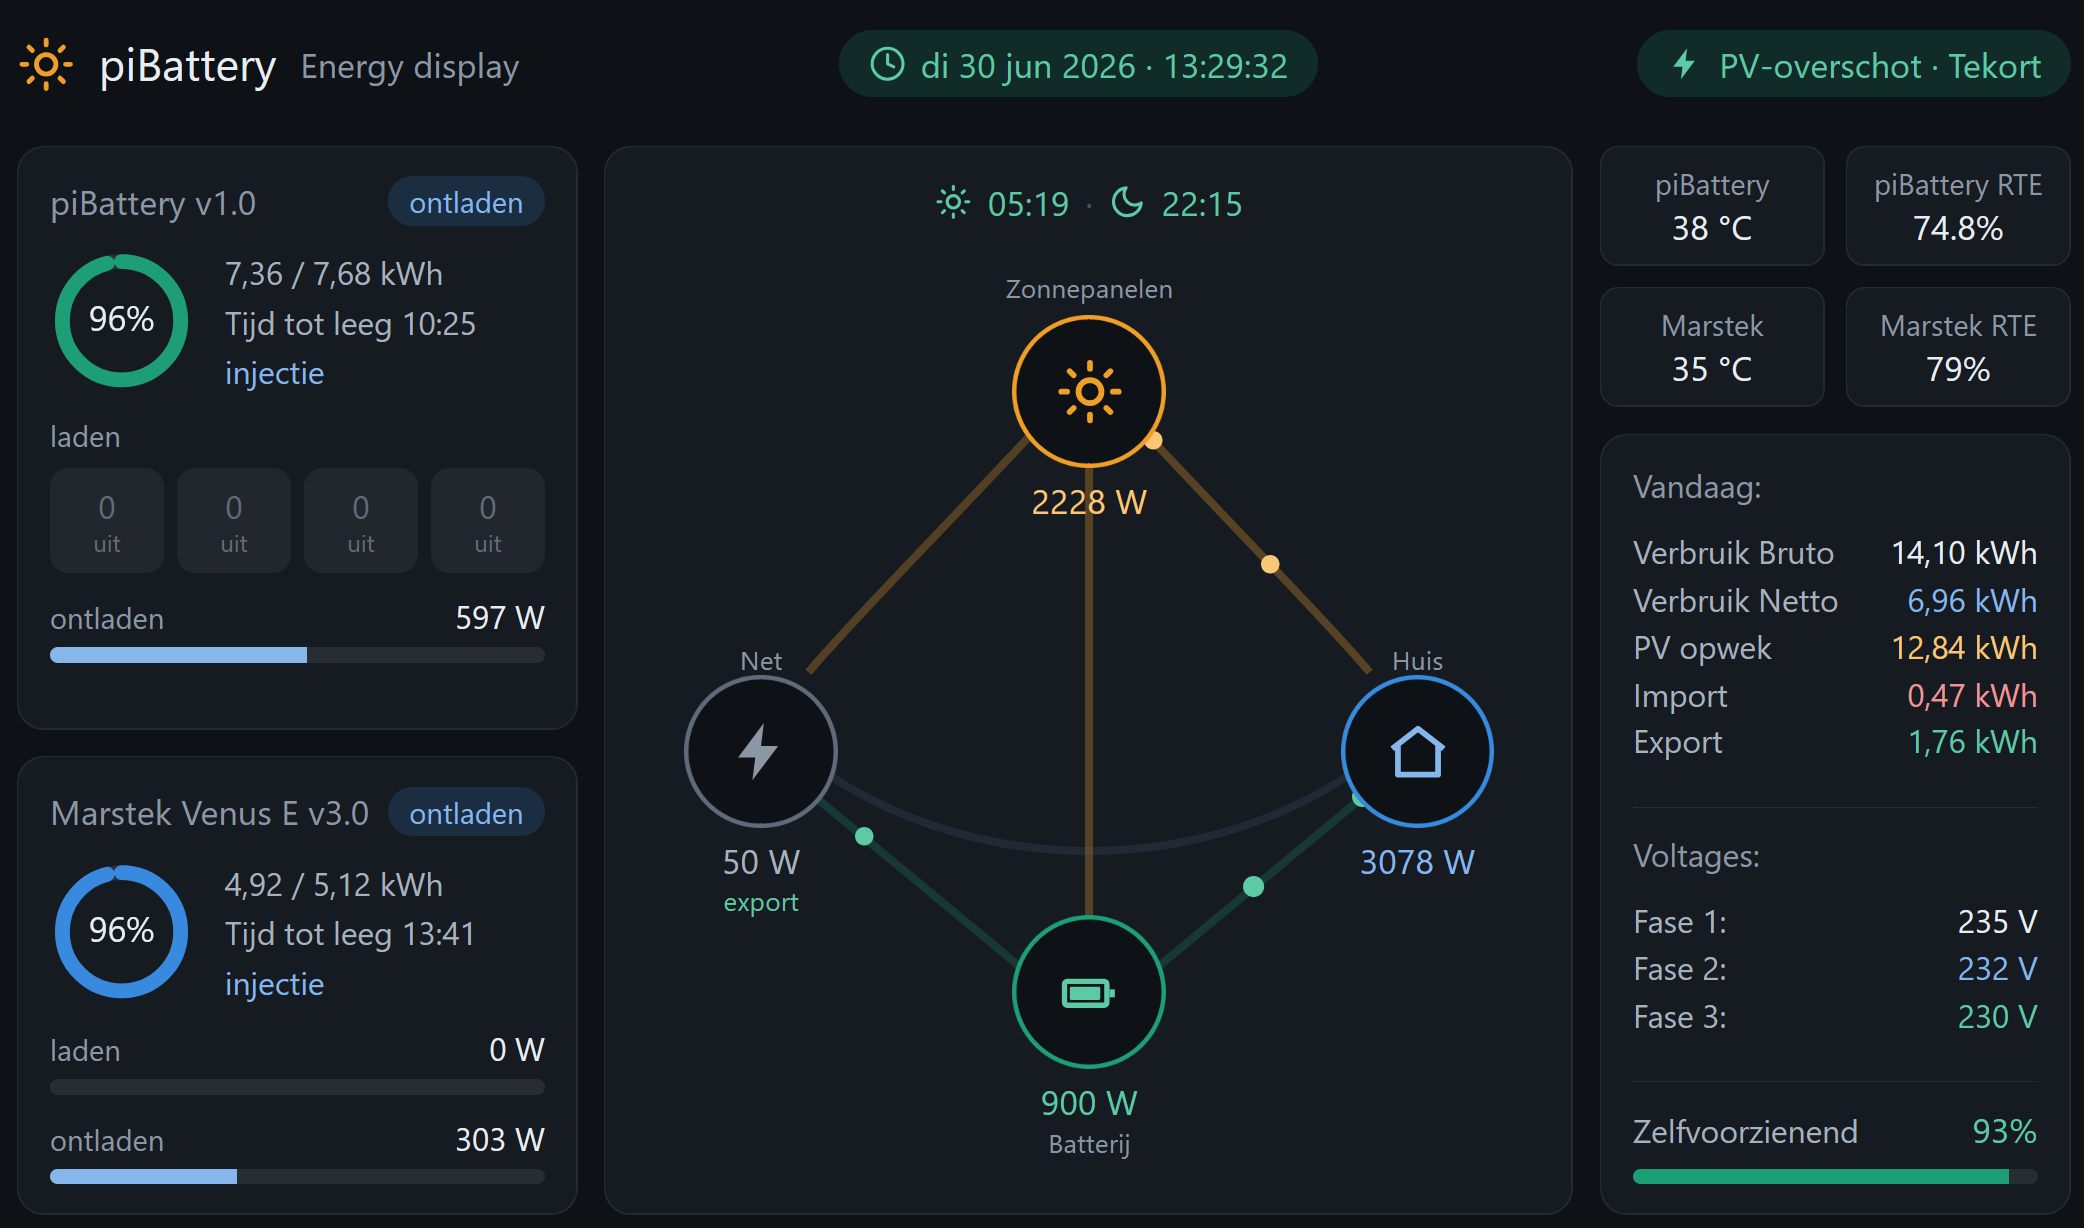
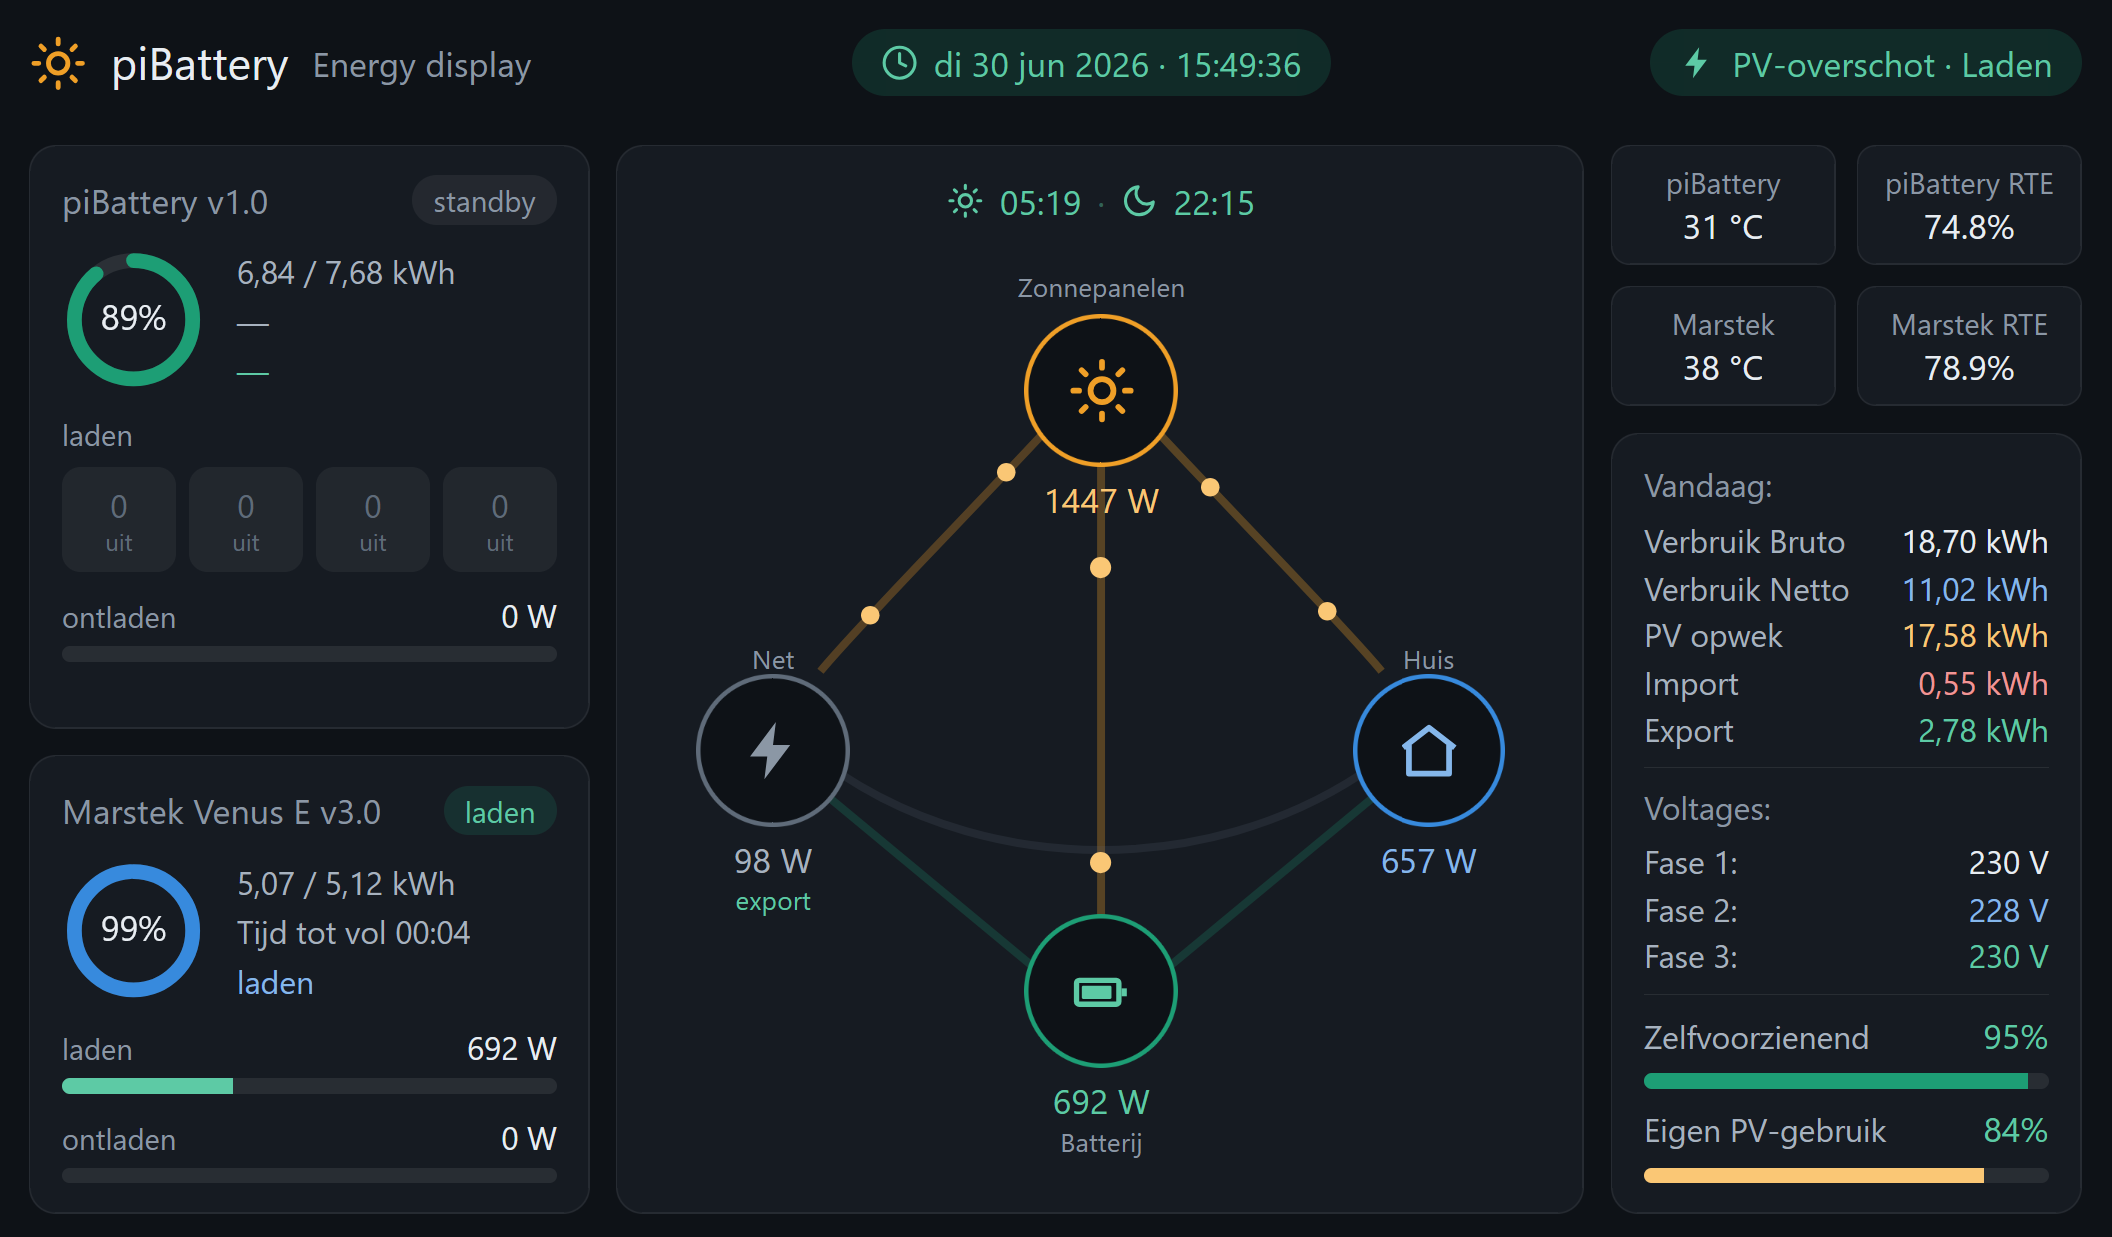
PV eigen verbruik aan kiosk toegevoegd

diff --git a/kiosk/index.php b/kiosk/index.php
@@ -77,11 +77,11 @@ $initial = null;
 	.tile .v { font-size:13px; font-weight:500; text-align:center;}
 
 	.day { padding:11px 12px; flex:1; display:flex; flex-direction:column; }
-	.day .h { font-size:12px; color:#8B97A5; margin-bottom:9px; }
+	.day .h { font-size:12px; color:#8B97A5; margin-bottom:5px; }
 	.day .line { display:flex; justify-content:space-between; font-size:12px; margin-bottom:2px; }
 	.day .line .k { color:#A7B2BF; }
 	.day .line .v { font-weight:500; }
-	.day .foot { margin-top:auto; border-top:1px solid rgba(255,255,255,0.08); padding-top:9px; }
+	.day .foot { margin-top:auto; border-top:1px solid rgba(255,255,255,0.08); padding-top:6px; }
 	.day .foot .t { display:flex; justify-content:space-between; align-items:baseline; margin-bottom:6px; }
 	.day .foot .t .k { font-size:12px; color:#A7B2BF; }
 	.day .foot .t .v { font-size:13px; font-weight:500; color:#5DCAA5; }
@@ -212,22 +212,22 @@ $initial = null;
 				<div class="node" style="left:145px; top:15px;">
 					<div class="lbl2">Zonnepanelen</div>
 					<div class="circ" style="border:2px solid #EF9F27;"><svg width="26" height="26" viewBox="0 0 24 24" fill="none" stroke="#EF9F27" stroke-width="2" stroke-linecap="round"><circle cx="12" cy="12" r="4"/><path d="M12 2v2M12 20v2M4.9 4.9l1.4 1.4M17.7 17.7l1.4 1.4M2 12h2M20 12h2M4.9 19.1l1.4-1.4M17.7 6.3l1.4-1.4"/></svg></div>
-					<div class="val" id="f-solar" style="color:#FAC775;">0,00 kWh</div>
+					<div class="val" id="f-solar" style="color:#FAC775;">0,00 W</div>
 				</div>
 				<div class="node" style="left:21px; top:155px;">
 					<div class="lbl">Net</div>
 					<div class="circ" style="border:2px solid #5F6B79;"><svg width="26" height="26" viewBox="0 0 24 24" fill="#8B97A5"><path d="M13 2 4 14h6l-1 8 9-12h-6z"/></svg></div>
-					<div class="val" id="f-p1" style="color:#A7B2BF;">0,00 kWh</div>
+					<div class="val" id="f-p1" style="color:#A7B2BF;">0,00 W</div>
 					<div class="lbl" id="f-p1label" style="color:#5DCAA5;">export</div>
 				</div>
 				<div class="node" style="left:269px; top:155px;">
 					<div class="lbl">Huis</div>
 					<div class="circ" style="border:2px solid #378ADD;"><svg width="26" height="26" viewBox="0 0 24 24" fill="none" stroke="#85B7EB" stroke-width="2" stroke-linejoin="round"><path d="M3 11l9-7 9 7M5 10v10h14V10"/></svg></div>
-					<div class="val" id="f-home" style="color:#85B7EB;">0,00 kWh</div>
+					<div class="val" id="f-home" style="color:#85B7EB;">0,00 W</div>
 				</div>
 				<div class="node" style="left:145px; top:259px;">
 					<div class="circ" style="border:2px solid #1D9E75;"><svg width="24" height="24" viewBox="0 0 24 24" fill="none" stroke="#5DCAA5" stroke-width="2" stroke-linejoin="round"><rect id="accu-fill" x="5" y="10" width="12" height="5" rx="0.5" fill="#5DCAA5" stroke="none"/><rect x="3" y="8" width="16" height="9" rx="1"/><path d="M21 11v3"/></svg></div>
-					<div class="val" id="f-accu" style="color:#5DCAA5;">0,00 kWh</div>
+					<div class="val" id="f-accu" style="color:#5DCAA5;">0,00 W</div>
 					<div class="lbl">Batterij</div>
 				</div>
 			</div>
@@ -256,6 +256,8 @@ $initial = null;
 				<div class="foot">
 					<div class="t"><span class="k">Zelfvoorzienend</span><span class="v" id="d-zelf">0%</span></div>
 					<div class="bar"><div id="d-zelfbar"></div></div>
+					<div class="t" style="margin-top:6px;"><span class="k">Eigen PV-gebruik</span><span class="v" id="d-pvgebruik">0%</span></div>
+					<div class="bar"><div id="d-pvgebruikbar" style="background:#FAC775"></div></div>
 				</div>
 			</div>
 		</div>
@@ -344,6 +346,11 @@ $initial = null;
 		set('d-export',   kwh(d.day.today.export) + ' kWh');
 		set('d-zelf', d.day.today.zelf + '%');
 		document.getElementById('d-zelfbar').style.width = d.day.today.zelf + '%';
+
+		// = Eigen PV-gebruik (hoeveel van de opwek zelf verbruikt i.p.v. geëxporteerd)
+		const pvGebruik = d.day.today.pv > 0 ? Math.round((d.day.today.pv - d.day.today.export) / d.day.today.pv * 100) : 0;
+		set('d-pvgebruik', pvGebruik + '%');
+		document.getElementById('d-pvgebruikbar').style.width = pvGebruik + '%';
 
 		// = Voltages per fase
 		if (d.voltages) {